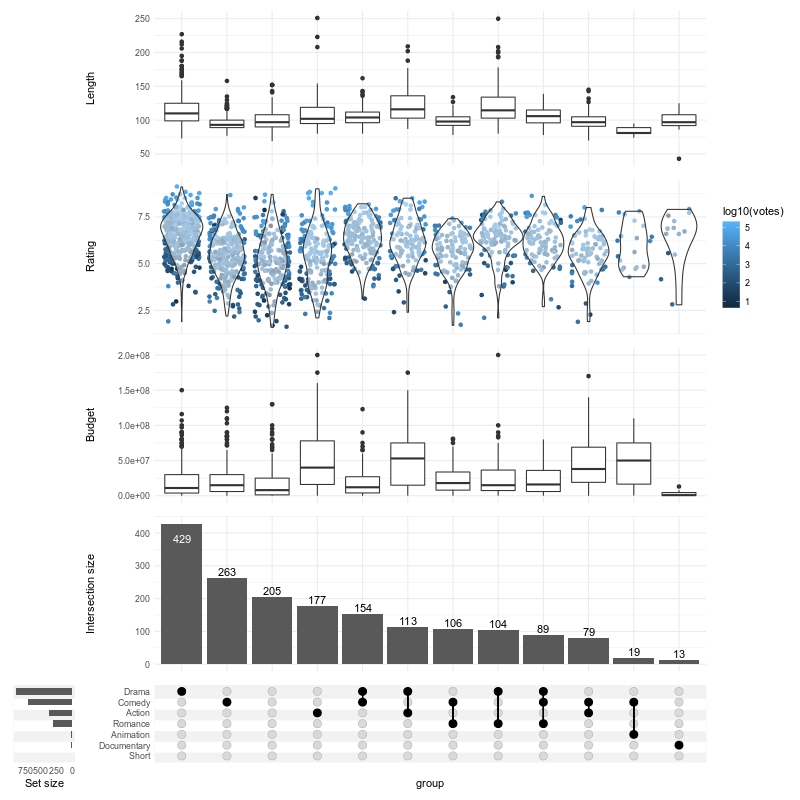
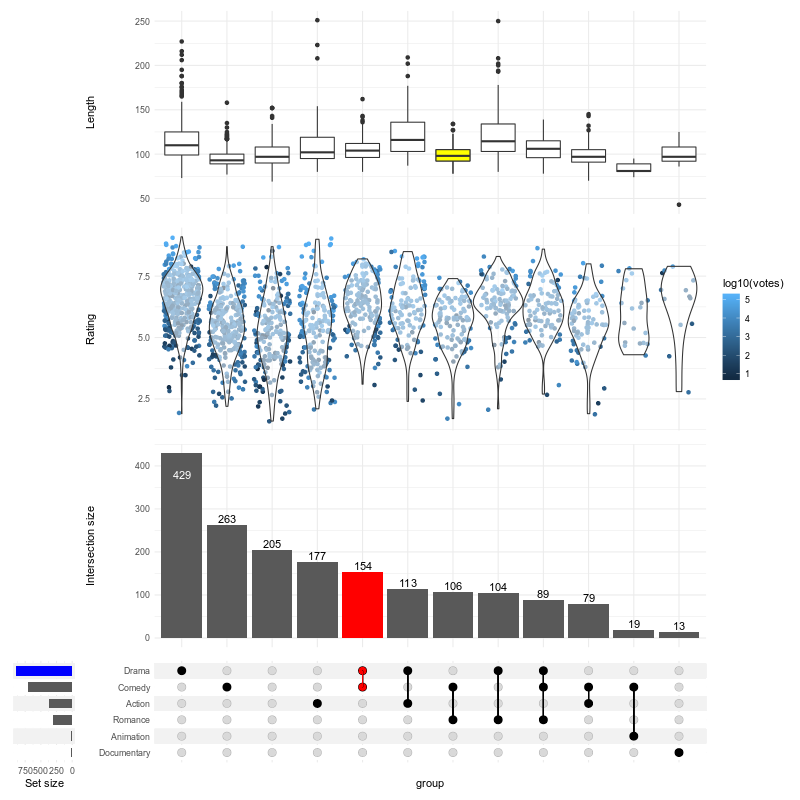
Expand docs, update the example, add link

diff --git a/README.md b/README.md
@@ -2,13 +2,15 @@
 
 [![DOI](https://zenodo.org/badge/236336935.svg)](https://zenodo.org/badge/latestdoi/236336935)
 
-Quick links: [Documentation & all examples](Examples.ipynb) | [Installation](https://github.com/krassowski/complex-upset#Install) | [R example](R_example.ipynb) | [Python example](Examples.ipynb)
+Quick links: [Documentation & all examples](Examples.ipynb) | [Installation](https://github.com/krassowski/complex-upset#Install) | [R example](R_example.ipynb) | [Python example](Examples.ipynb) | [Reference](https://krassowski.github.io/complex-upset/)
 
 ## Showcase
 
 Get all the goodies of `UpSetR`, but with full extensibility of `ggplot2`. 
 
-![Example UpSet plot](/movies.png)
+![Example UpSet plot](https://raw.githubusercontent.com/krassowski/complex-upset/master/movies.png)
+
+Click on "details" to show the source code: <details>
 
 ```R
 library(ggplot2)
@@ -16,7 +18,8 @@ library(ComplexUpset)
 
 
 upset(
-    movies, genres,
+    movies,
+    genres,
     annotations = list(
         'Length'=list(
             aes=aes(x=intersection, y=length),
@@ -29,16 +32,31 @@ upset(
                 geom_jitter(aes(color=log10(votes))),
                 geom_violin(width=1.1, alpha=0.5)
             )
+        )
+    ),
+    queries=list(
+        upset_query(
+            intersect=c('Drama', 'Comedy'),
+            color='red',
+            fill='red',
+            only_components=c('intersections_matrix', 'Intersection size')
         ),
-        'Budget'=list(
-            aes=aes(x=intersection, y=budget),
-            geom=geom_boxplot()
+        upset_query(
+            set='Drama',
+            fill='blue'
+        ),
+        upset_query(
+            intersect=c('Romance', 'Comedy'),
+            fill='yellow',
+            only_components=c('Length')
         )
     ),
     min_size=10,
     width_ratio=0.1
 )
 ```
+
+</details>
 
 
 Click [here for more examples with the full source code](Examples.ipynb). Also contains instructions for using from Python.
